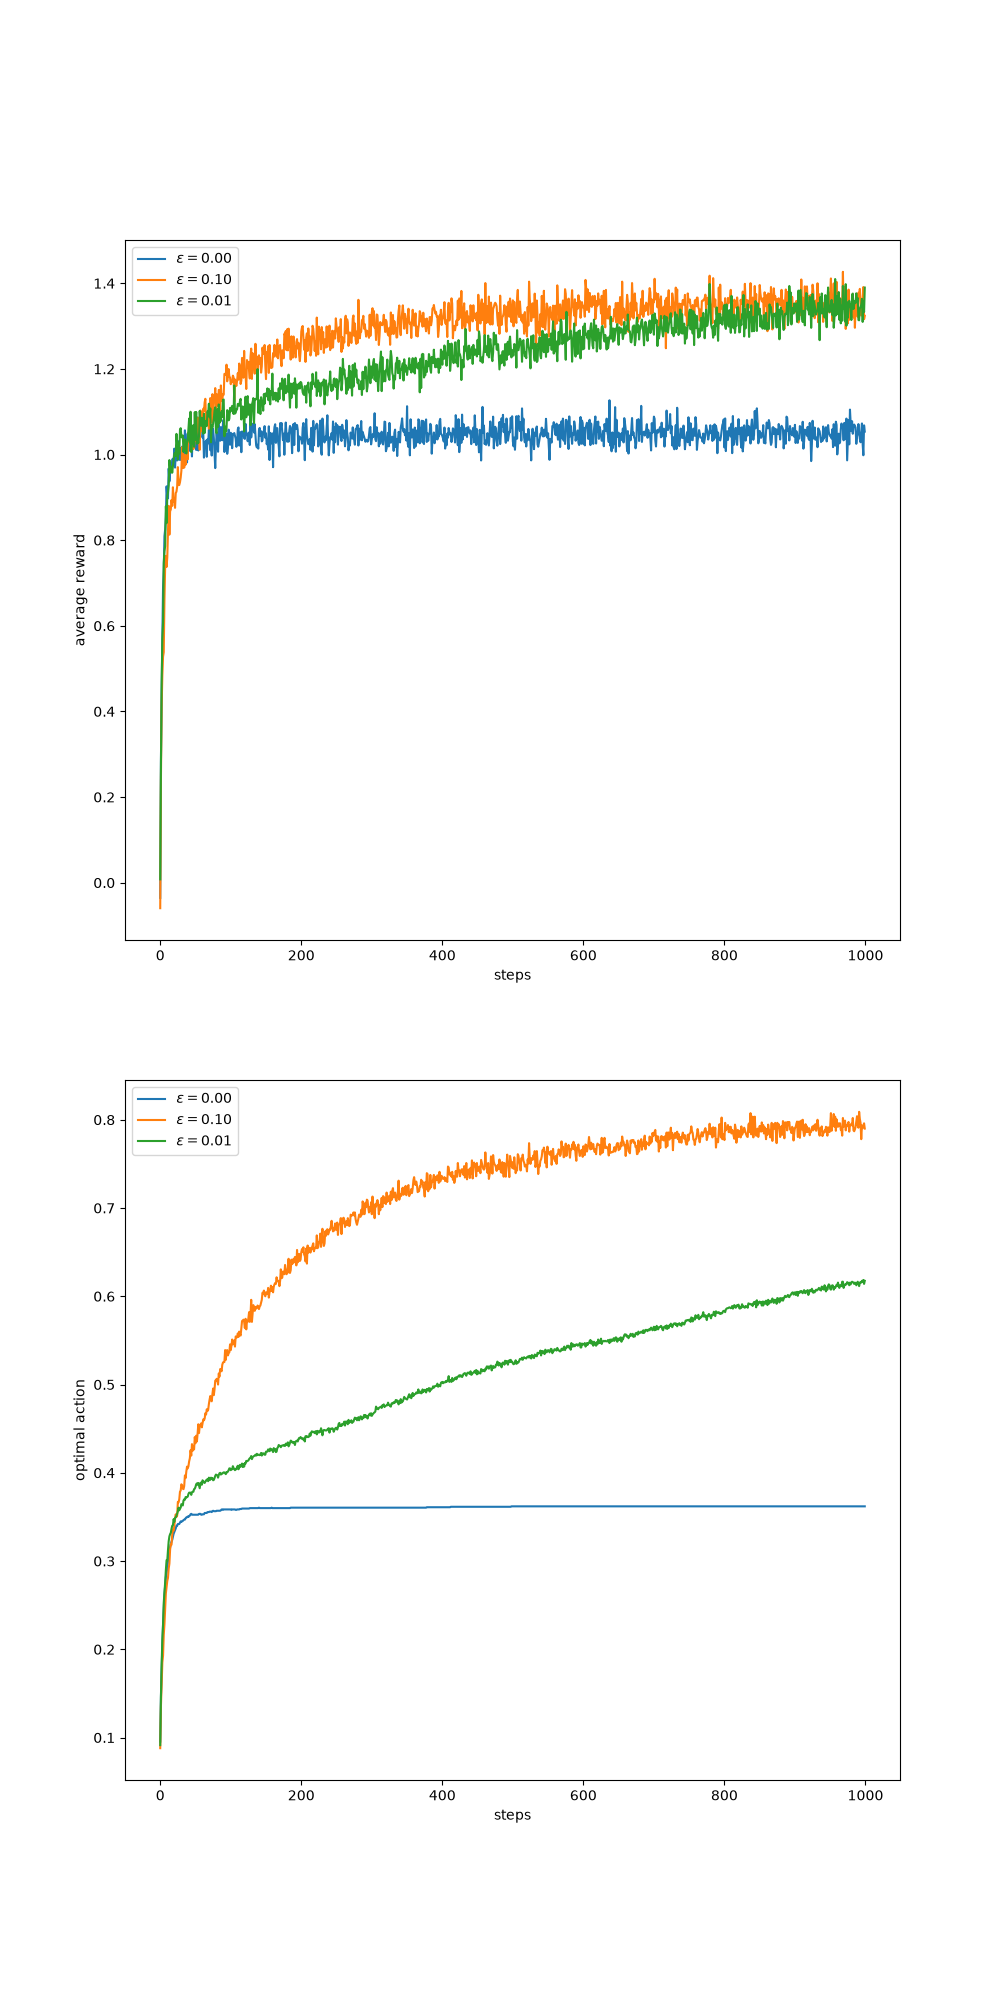
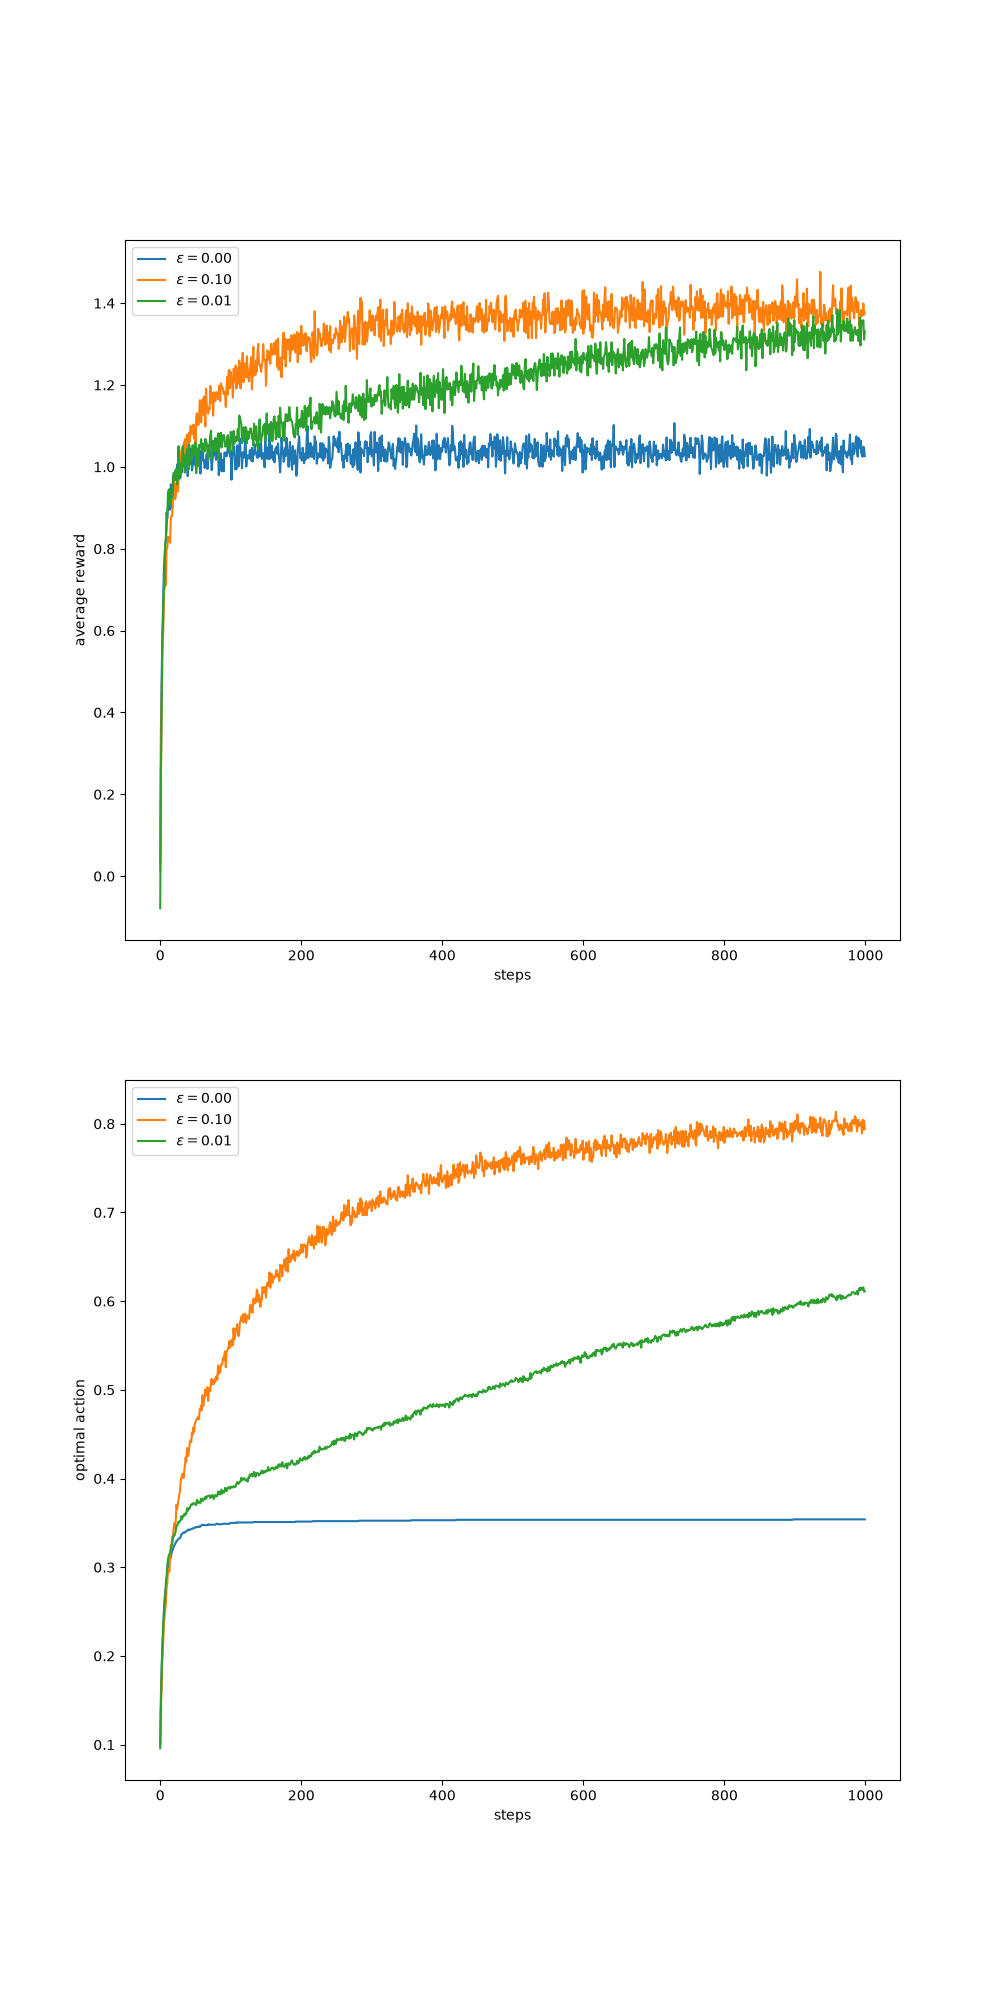
ABC Changes

diff --git a/MAB_EpsilonGreedy_UCB.py b/MAB_EpsilonGreedy_UCB.py
@@ -3,7 +3,9 @@ import matplotlib.pyplot as plt
 import numpy as np
 from tqdm import trange
 
-class Bandit:
+from abc import ABC, abstractmethod
+
+class Base_Bandit(ABC):
     # @k_arm: # of arms
     # @epsilon: probability for exploration in epsilon-greedy algorithm
     # @initial: initial estimation for each action
@@ -47,19 +49,9 @@ class Bandit:
         self.time = 0
 
     # get an action for this bandit
+    @abstractmethod
     def act(self):
-        if np.random.rand() < self.epsilon:
-            return np.random.choice(self.indices)
-
-        if self.UCB_param is not None:
-            UCB_estimation = self.q_estimation + self.UCB_param * np.sqrt(
-                np.log(self.time + 1) / (self.action_count + 1e-5)
-            )
-            q_best = np.max(UCB_estimation)
-            return np.random.choice(np.where(UCB_estimation == q_best)[0])
-
-        q_best = np.max(self.q_estimation)
-        return np.random.choice(np.where(self.q_estimation == q_best)[0])
+        pass
 
     # take an action, update estimation for this action
     def step(self, action):
@@ -81,6 +73,24 @@ class Bandit:
             )
         return reward
 
+class EpsilonGreedy(Base_Bandit): 
+    def act(self):
+        if np.random.rand() < self.epsilon:
+            return np.random.choice(self.indices) 
+        q_best = np.max(self.q_estimation)
+        return np.random.choice(np.where(self.q_estimation == q_best)[0])   
+    
+    
+class UCB(Base_Bandit):
+    def act(self):
+        if self.UCB_param is not None:
+            UCB_estimation = self.q_estimation + \
+            self.UCB_param * np.sqrt(np.log(self.time + 1) / (self.action_count + 1e-5))
+            q_best = np.max(UCB_estimation)
+            return np.random.choice(np.where(UCB_estimation == q_best)[0])
+        q_best = np.max(self.q_estimation)
+        return np.random.choice(np.where(self.q_estimation == q_best)[0])    
+
 
 def simulate(runs, time, bandits):
     rewards = np.zeros((len(bandits), runs, time))
@@ -101,7 +111,7 @@ def simulate(runs, time, bandits):
 
 def figure_epsilongreedy(runs=2000, time=1000, show=False):
     epsilons = [0, 0.1, 0.01]
-    bandits = [Bandit(epsilon=eps, sample_averages=True) for eps in epsilons]
+    bandits = [EpsilonGreedy(epsilon=eps, sample_averages=True) for eps in epsilons]
     best_action_counts, rewards = simulate(runs, time, bandits)
 
     plt.figure(figsize=(10, 20))
@@ -128,8 +138,8 @@ def figure_epsilongreedy(runs=2000, time=1000, show=False):
 
 def figure_UCB(runs=2000, time=1000, show=False):
     bandits = []
-    bandits.append(Bandit(epsilon=0, UCB_param=2, sample_averages=True))
-    bandits.append(Bandit(epsilon=0.1, sample_averages=True))
+    bandits.append(UCB(epsilon=0, UCB_param=2, sample_averages=True))
+    bandits.append(UCB(epsilon=0.1, sample_averages=True))
     _, average_rewards = simulate(runs, time, bandits)
 
     plt.plot(average_rewards[0], label="UCB $c = 2$")
